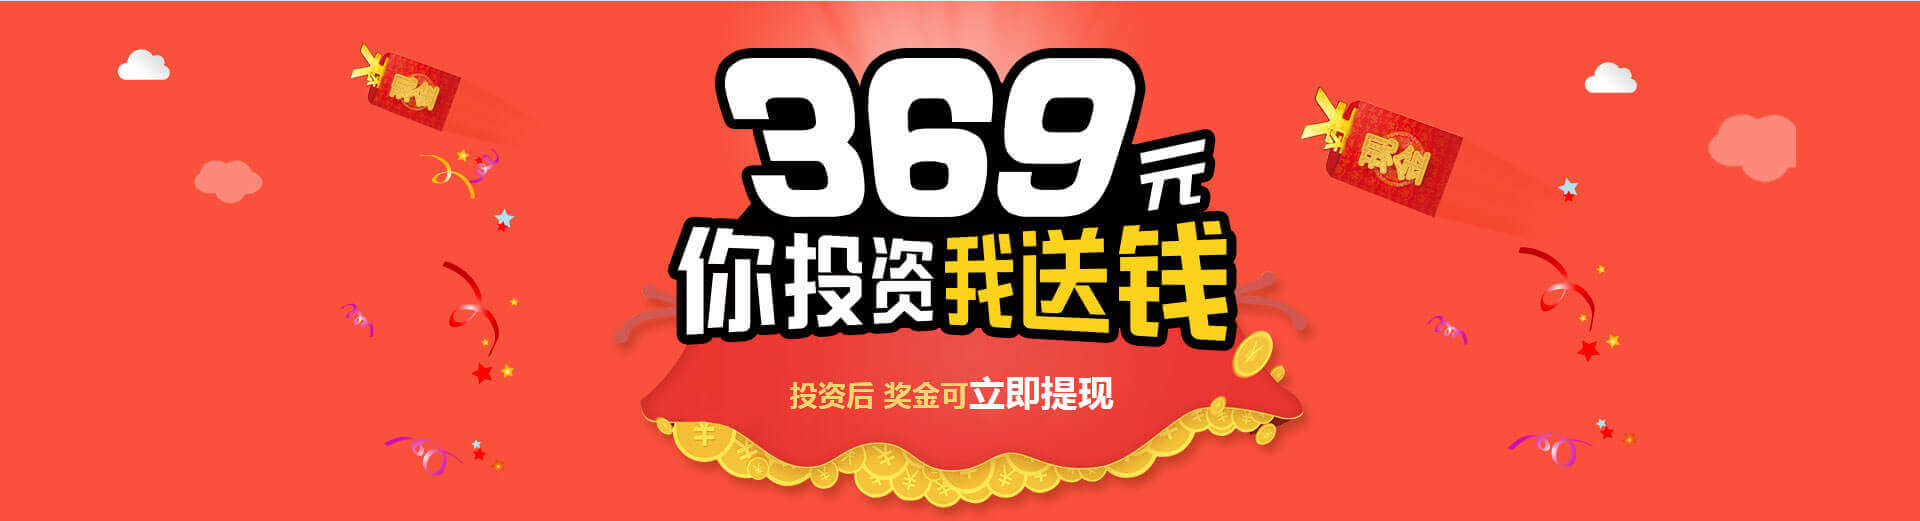
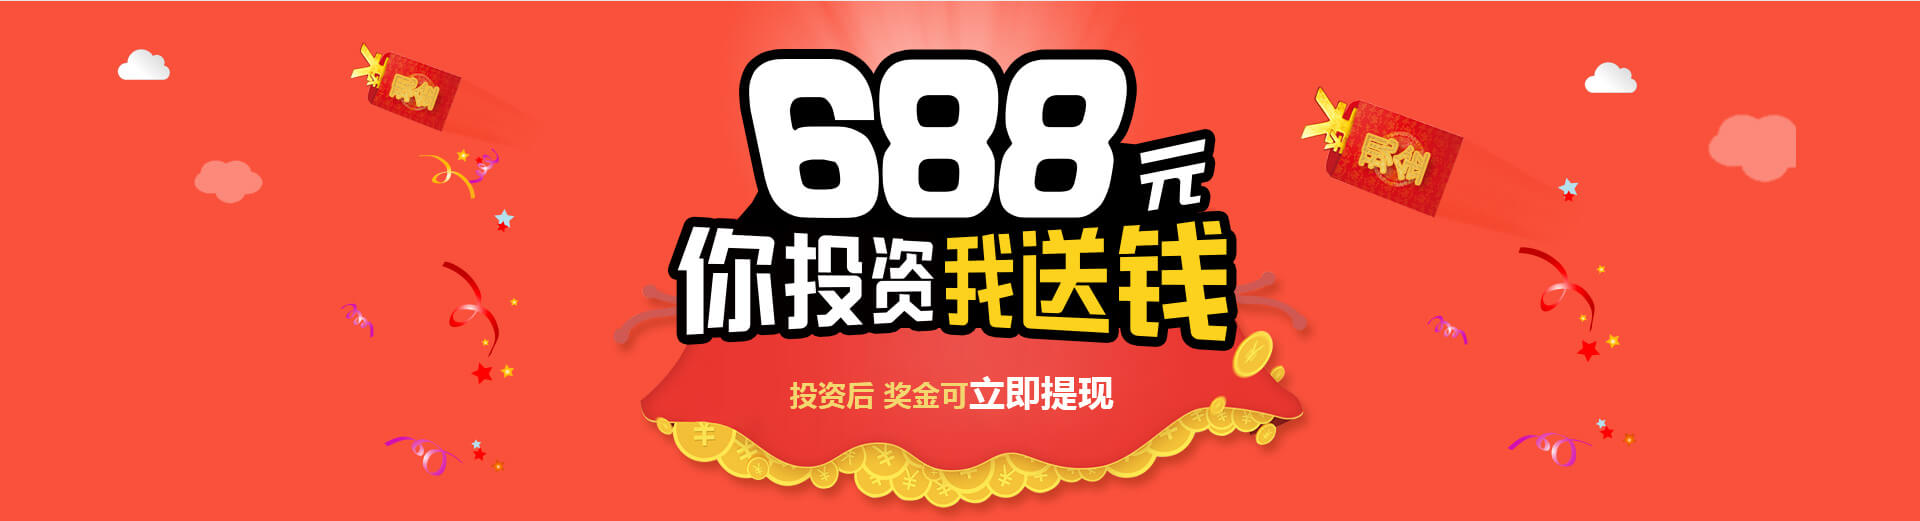
fix(send-money) 修改投资返现banner图 ，文案，数据

diff --git a/app/views/send-money.html b/app/views/send-money.html
@@ -20,39 +20,39 @@
           </thead>
           <tbody>
             <tr>
-              <td class="col0-ft-red1 boder-l2" ui-sref="root.guaranteepro-list-query-no">10元</td>
+              <td class="col0-ft-red1 boder-l2" ui-sref="root.guaranteepro-list-query-no">15元</td>
               <td class="border-left2">&ge;200元</td>
-              <td class="border-r2">&ge;1个月</td>
+              <td class="border-r2">&ge;30天</td>
               <!-- <td>宏金宝</td> -->
             </tr>
             <tr>
-              <td class="col0-ft-red1 boder-l2" ui-sref="root.guaranteepro-list-query-no">20元</td>
+              <td class="col0-ft-red1 boder-l2" ui-sref="root.guaranteepro-list-query-no">25元</td>
               <td class="border-left2">&ge;2000元</td>
-              <td class="border-r2">&ge;1个月</td>
+              <td class="border-r2">&ge;30天</td>
               <!-- <td>月月盈</td> -->
             </tr>
             <tr>
-              <td class="col0-ft-red1 boder-l2" ui-sref="root.guaranteepro-list-query-no">30元</td>
+              <td class="col0-ft-red1 boder-l2" ui-sref="root.guaranteepro-list-query-no">45元</td>
               <td class="border-left2">&ge;5000元</td>
-              <td class="border-r2">&ge;1个月</td>
+              <td class="border-r2">&ge;30天</td>
               <!-- <td>宏金宝</td> -->
             </tr>
             <tr>
-              <td class="col0-ft-red1 boder-l2" ui-sref="root.guaranteepro-list-query-no">55元</td>
+              <td class="col0-ft-red1 boder-l2" ui-sref="root.guaranteepro-list-query-no">80元</td>
               <td class="border-left2">&ge;10000元</td>
-              <td class="border-r2">&ge;1个月</td>
+              <td class="border-r2">&ge;30天</td>
               <!-- <td>宏金宝</td> -->
             </tr>
             <tr>
-              <td class="col0-ft-red1 boder-l2" ui-sref="root.guaranteepro-list-query-no">88元</td>
+              <td class="col0-ft-red1 boder-l2" ui-sref="root.guaranteepro-list-query-no">135元</td>
               <td class="border-left2">&ge;30000元</td>
-              <td class="border-r2">&ge;1个月</td>
+              <td class="border-r2">&ge;30天</td>
               <!-- <td>宏金宝</td> -->
             </tr>
             <tr>
-              <td class="col0-ft-red1 boder-l2 border-b2" ui-sref="root.guaranteepro-list-query-no">166元</td>
+              <td class="col0-ft-red1 boder-l2 border-b2" ui-sref="root.guaranteepro-list-query-no">388元</td>
               <td class="border-left1 border-b2">&ge;100000元</td>
-              <td class="border-b1 border-r2 border-b2">&ge;1个月</td>
+              <td class="border-b1 border-r2 border-b2">&ge;30天</td>
               <!-- <td>宏金宝</td> -->
             </tr>
           </tbody>
@@ -128,7 +128,7 @@
       </div>
       <div class="row padd">
         <div class="col-md-1"><span>&nbsp;  &nbsp;2、</span></div>
-        <div class="col-md-10 margin-l-10"><p>投资即送现金。每档投资与赠送现金一一对应，最高可获得369元现金。</p></div>
+        <div class="col-md-10 margin-l-10"><p>投资即送现金。每档投资与赠送现金一一对应，最高可获得688元现金。</p></div>
       </div>
       <div class="row padd">
         <div class="col-md-1"><span>&nbsp;  &nbsp;3、</span></div>
